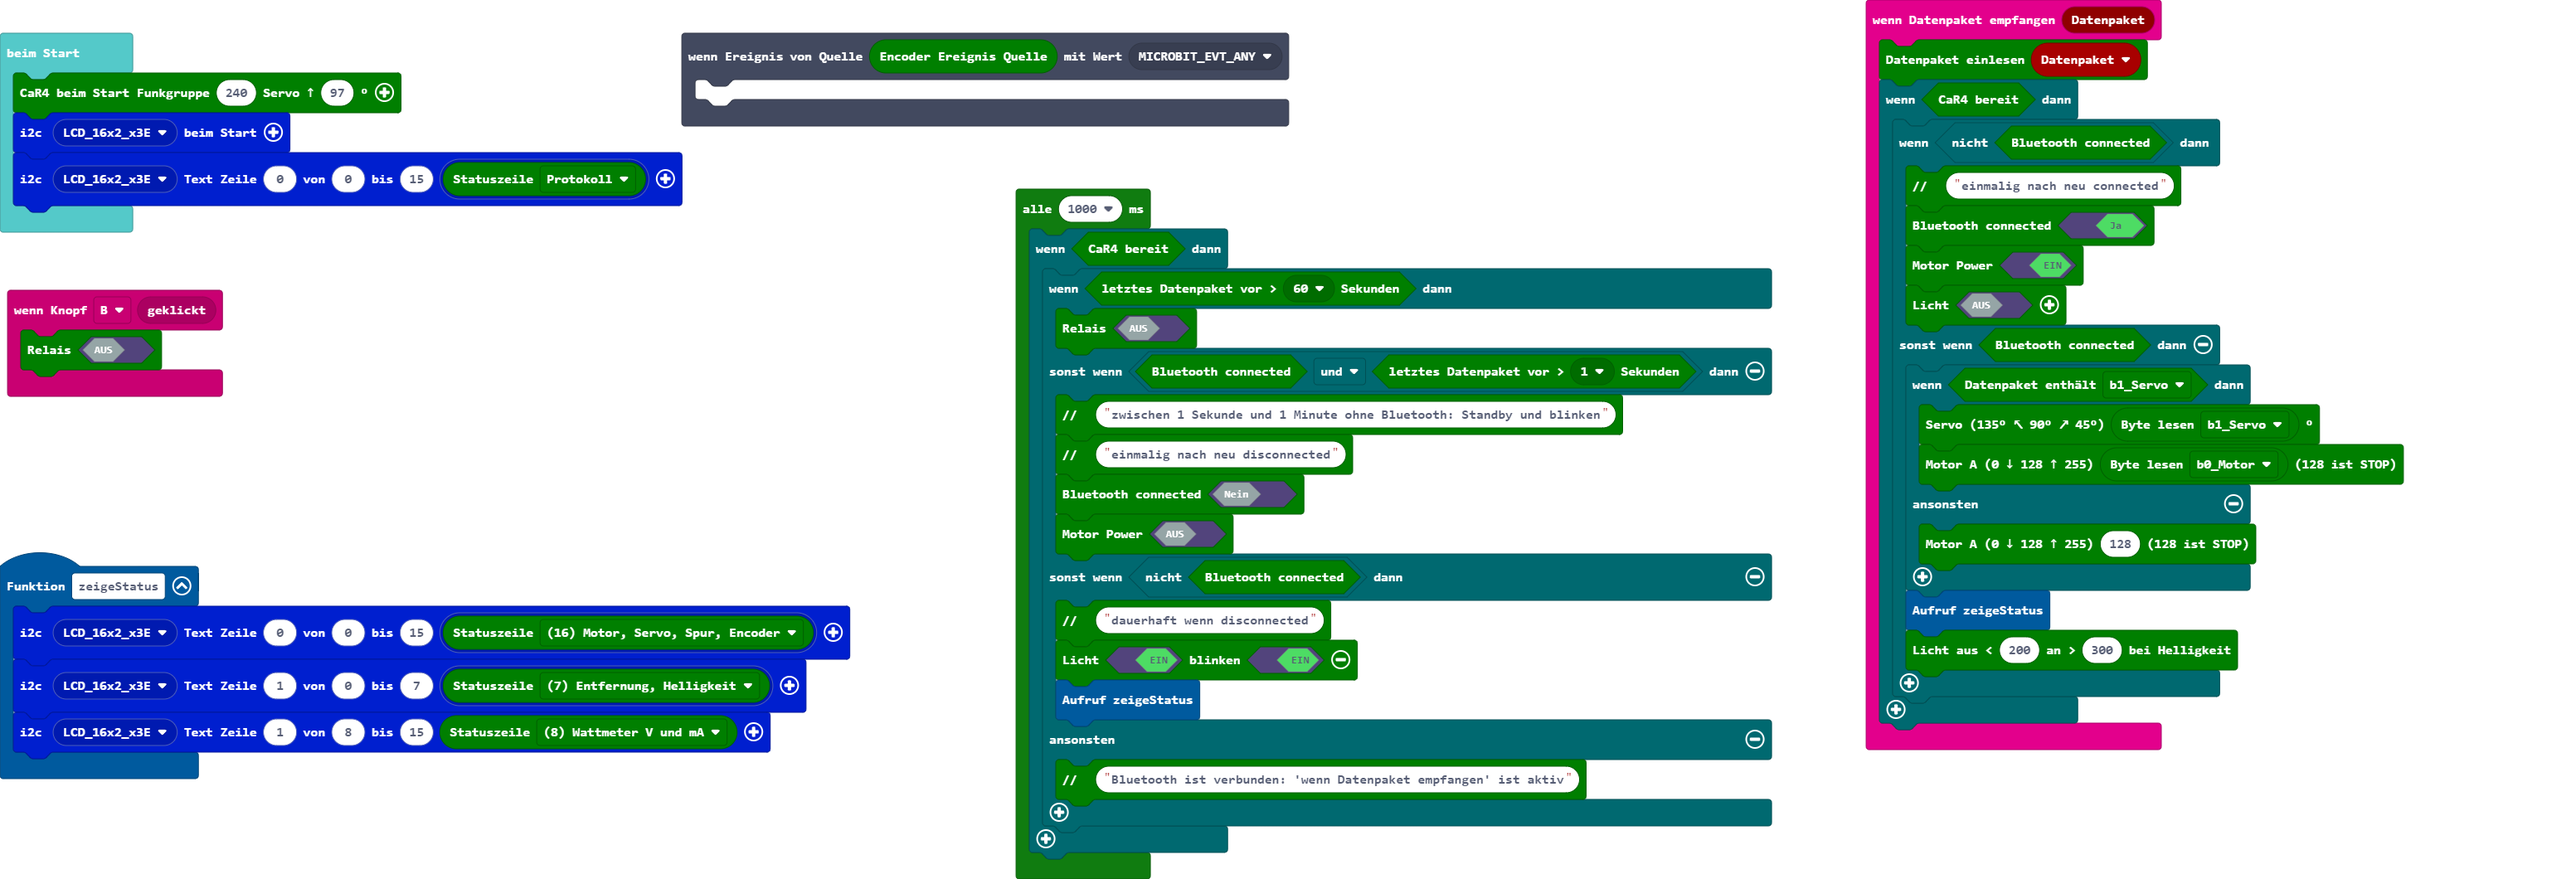
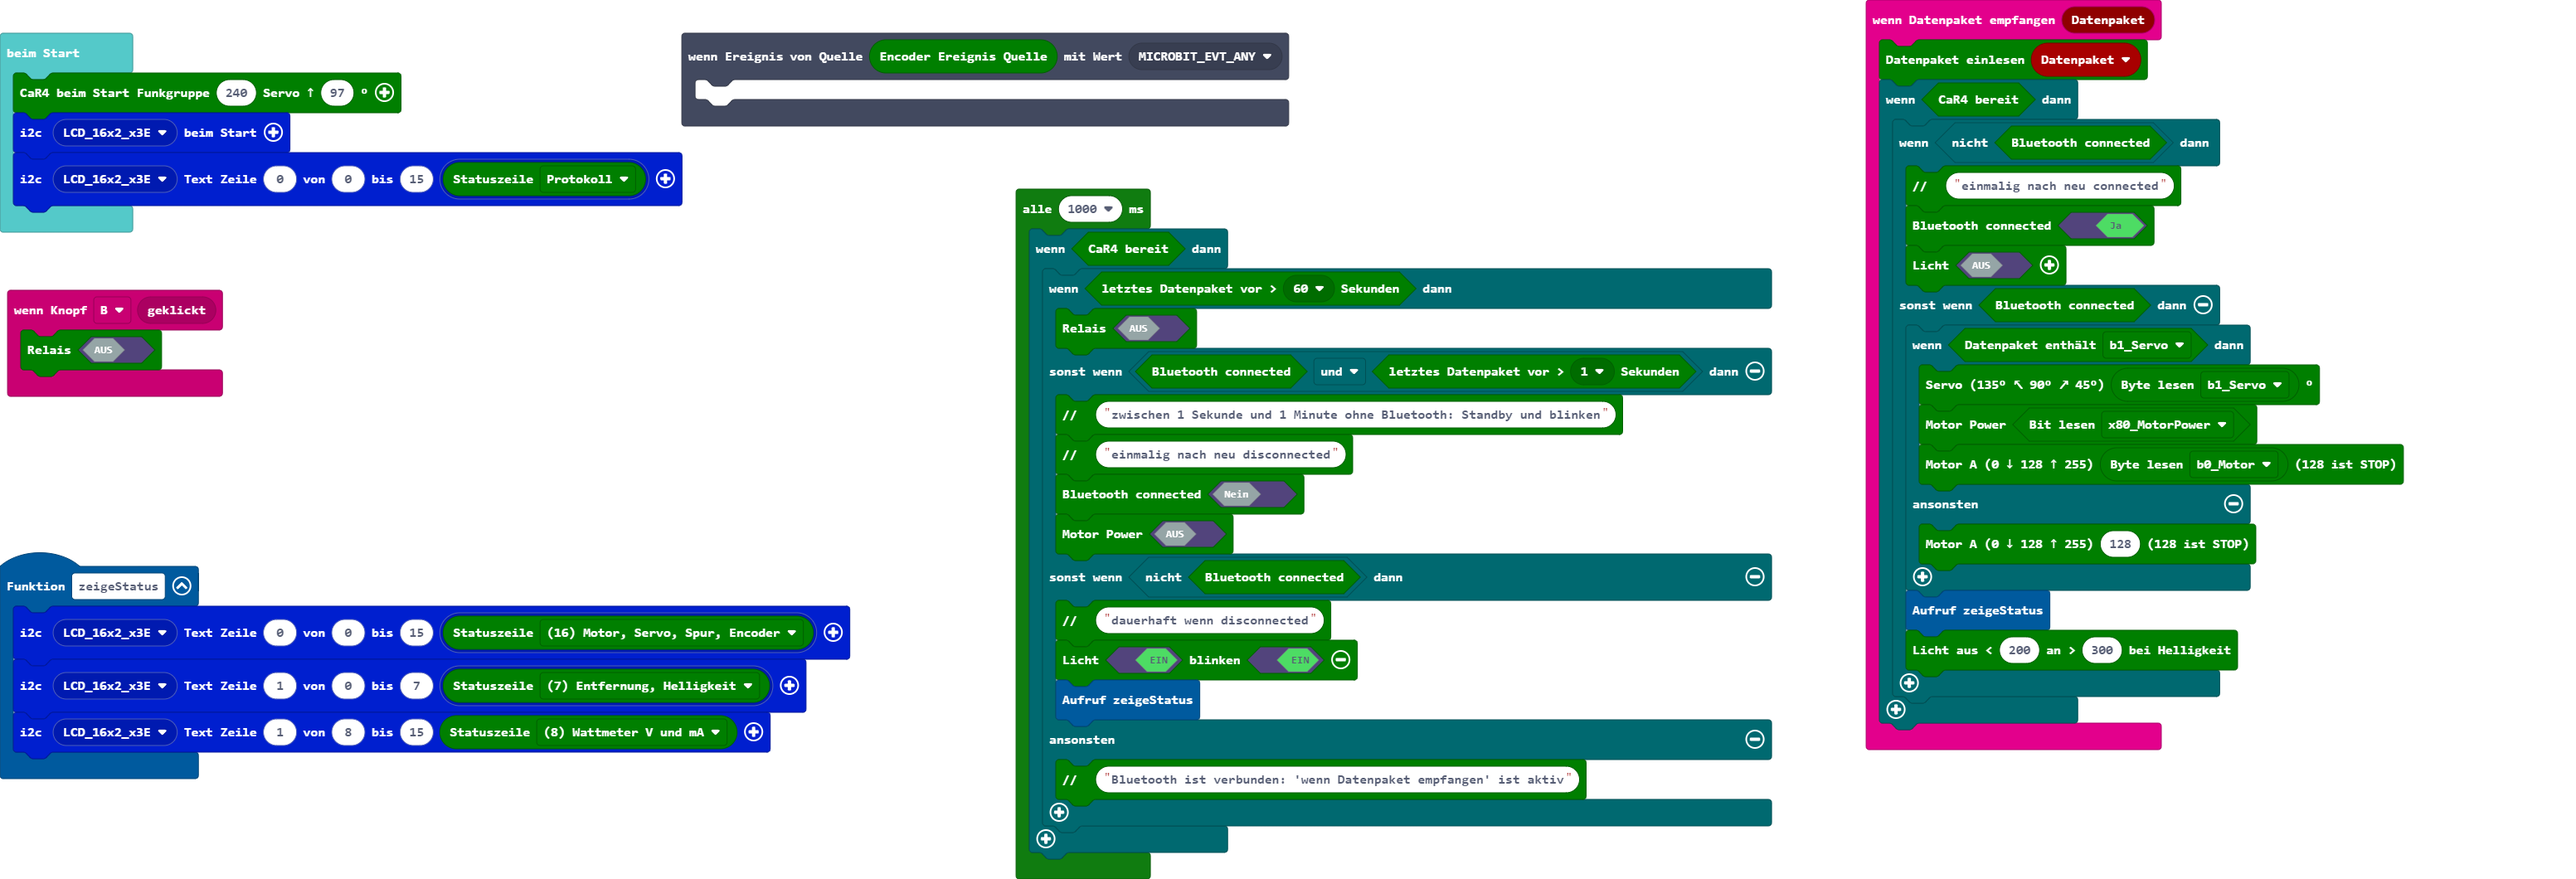
Aktualisiere main.blocks, main.ts

Changed region(s): [[0.7183, 0.2802, 0.9057, 0.5292]]

diff --git a/main.ts b/main.ts
@@ -12,11 +12,11 @@ radio.onReceivedBuffer(function (Datenpaket) {
         if (!(car4.isConnected())) {
             car4.comment("einmalig nach neu connected")
             car4.setConnected(true)
-            car4.motorON(true)
             car4.licht(false)
         } else if (car4.isConnected()) {
             if (car4.receivedBuffer_Contains(car4.eBuffer.b1_Servo)) {
                 car4.servo(car4.receivedBuffer_getUint8(car4.eBuffer.b1_Servo))
+                car4.motorON(car4.receivedBuffer_getBit(car4.eBit.x80_MotorPower))
                 car4.motorA255(car4.receivedBuffer_getUint8(car4.eBuffer.b0_Motor))
             } else {
                 car4.motorA255(128)
